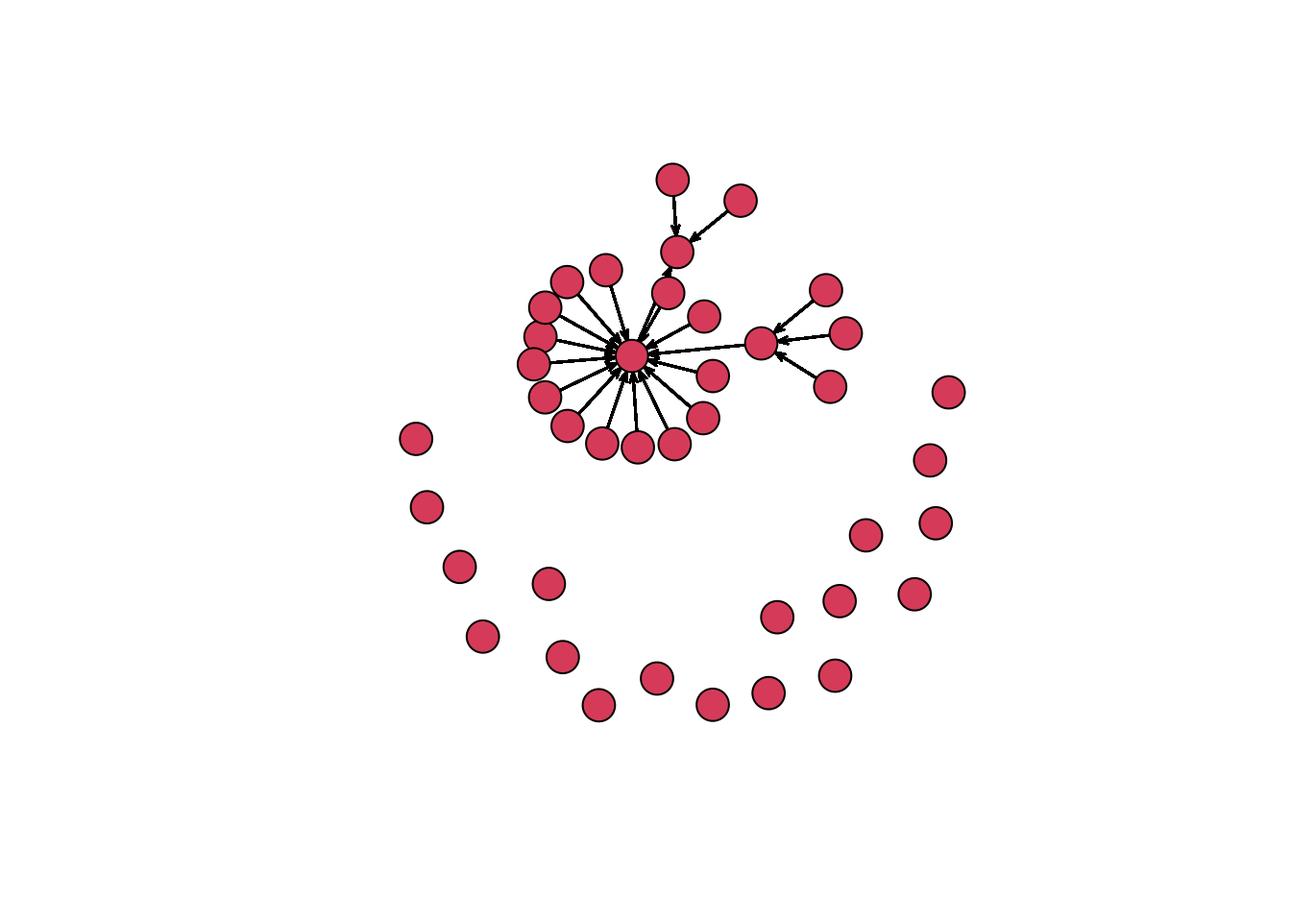
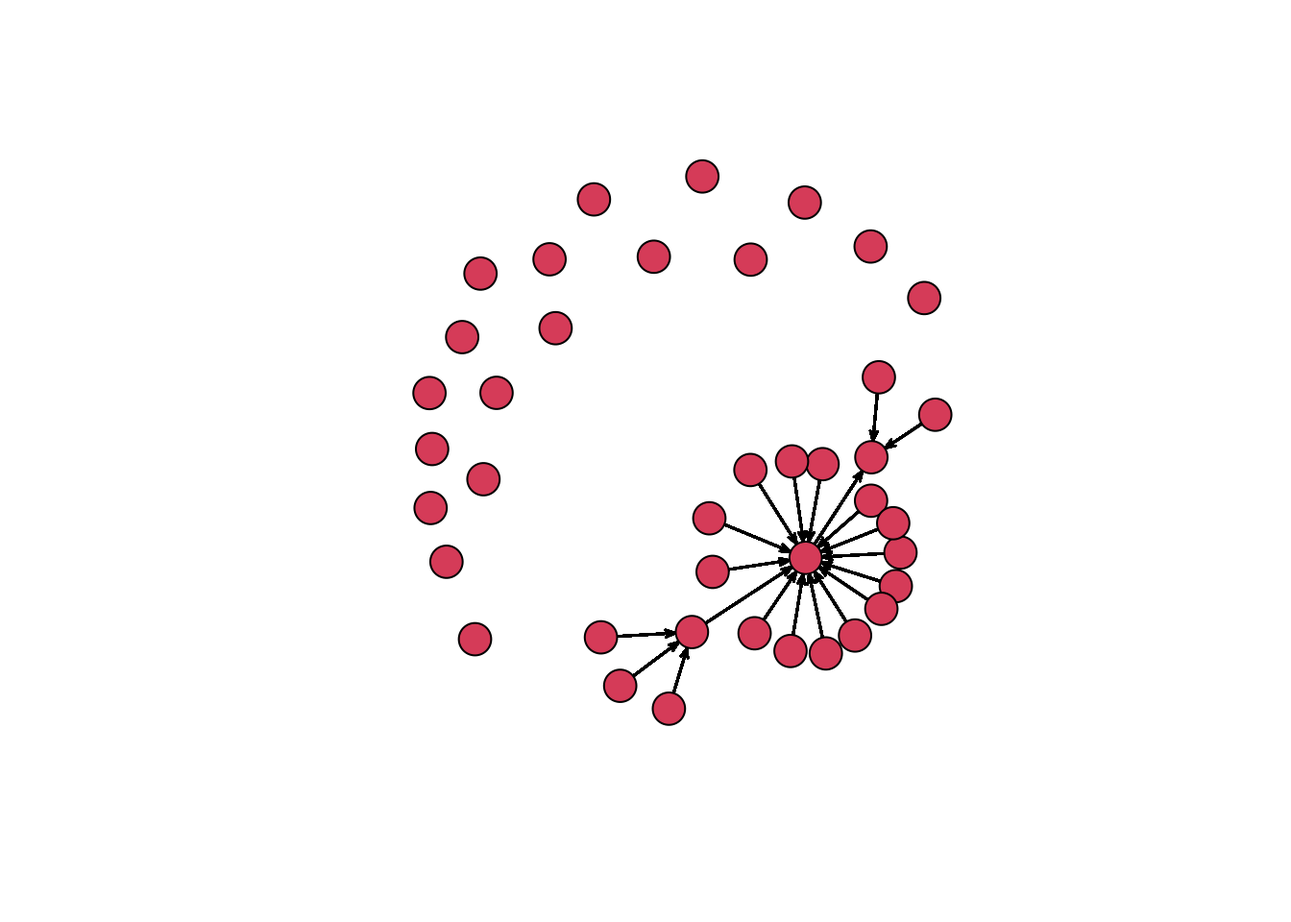
hw10

diff --git a/HW10_Final.html b/HW10_Final.html
@@ -348,9 +348,8 @@ library(network)</code></pre>
 ## Attaching package: &#39;igraph&#39;</code></pre>
 <pre><code>## The following objects are masked from &#39;package:network&#39;:
 ## 
-##     %c%, %s%, add.edges, add.vertices, delete.edges, delete.vertices,
-##     get.edge.attribute, get.edges, get.vertex.attribute, is.bipartite,
-##     is.directed, list.edge.attributes, list.vertex.attributes,
+##     %c%, %s%, add.edges, add.vertices, delete.edges, delete.vertices, get.edge.attribute, get.edges,
+##     get.vertex.attribute, is.bipartite, is.directed, list.edge.attributes, list.vertex.attributes,
 ##     set.edge.attribute, set.vertex.attribute</code></pre>
 <pre><code>## The following objects are masked from &#39;package:stats&#39;:
 ## 
@@ -359,12 +358,12 @@ library(network)</code></pre>
 ## 
 ##     union</code></pre>
 <pre class="r"><code>library(tidyverse)</code></pre>
-<pre><code>## ── Attaching packages ─────────────────────────────────────── tidyverse 1.3.0 ──</code></pre>
+<pre><code>## ── Attaching packages ─────────────────────────────────────────────────────────────────────────────── tidyverse 1.3.0 ──</code></pre>
 <pre><code>## ✓ ggplot2 3.3.3     ✓ purrr   0.3.4
 ## ✓ tibble  3.1.0     ✓ dplyr   1.0.2
 ## ✓ tidyr   1.1.2     ✓ stringr 1.4.0
 ## ✓ readr   1.4.0     ✓ forcats 0.5.0</code></pre>
-<pre><code>## ── Conflicts ────────────────────────────────────────── tidyverse_conflicts() ──
+<pre><code>## ── Conflicts ────────────────────────────────────────────────────────────────────────────────── tidyverse_conflicts() ──
 ## x dplyr::as_data_frame() masks tibble::as_data_frame(), igraph::as_data_frame()
 ## x purrr::compose()       masks igraph::compose()
 ## x tidyr::crossing()      masks igraph::crossing()
@@ -384,80 +383,43 @@ edge_prep &lt;- node %&gt;% pivot_longer(col = -c(ID, trait), names_to = &quot;i
 edgelist &lt;- separate_rows(edge_prep, value, sep =&quot;,&quot;) %&gt;% 
   rename (`tie-type` = value)
 as.character(edgelist$`tie-type`)</code></pre>
-<pre><code>##    [1] NA  NA  NA  NA  NA  NA  NA  &quot;4&quot; NA  &quot;4&quot; &quot;1&quot; NA  NA  NA  NA  NA  NA  &quot;1&quot;
-##   [19] &quot;2&quot; &quot;3&quot; &quot;4&quot; &quot;5&quot; NA  &quot;1&quot; &quot;3&quot; &quot;4&quot; &quot;5&quot; &quot;4&quot; NA  NA  NA  NA  NA  NA  NA  &quot;4&quot;
-##   [37] NA  NA  NA  NA  &quot;1&quot; &quot;2&quot; &quot;3&quot; &quot;4&quot; &quot;5&quot; NA  &quot;1&quot; &quot;3&quot; &quot;4&quot; &quot;5&quot; NA  NA  NA  NA 
-##   [55] NA  NA  NA  NA  NA  NA  NA  NA  NA  NA  NA  NA  NA  NA  NA  NA  NA  NA 
-##   [73] NA  NA  NA  NA  NA  NA  NA  NA  NA  NA  NA  NA  NA  NA  NA  NA  NA  &quot;2&quot;
-##   [91] &quot;1&quot; NA  &quot;1&quot; NA  NA  NA  NA  &quot;1&quot; &quot;2&quot; &quot;3&quot; &quot;4&quot; &quot;5&quot; NA  &quot;1&quot; &quot;3&quot; &quot;4&quot; &quot;5&quot; NA 
-##  [109] NA  &quot;1&quot; &quot;5&quot; NA  NA  NA  NA  NA  NA  NA  NA  NA  NA  NA  NA  &quot;1&quot; &quot;3&quot; &quot;4&quot;
-##  [127] &quot;5&quot; NA  &quot;1&quot; &quot;2&quot; &quot;3&quot; &quot;4&quot; &quot;5&quot; NA  NA  NA  NA  NA  NA  NA  NA  NA  NA  NA 
-##  [145] NA  NA  NA  NA  &quot;1&quot; &quot;2&quot; &quot;3&quot; &quot;4&quot; &quot;5&quot; NA  &quot;1&quot; &quot;2&quot; &quot;3&quot; &quot;4&quot; NA  NA  NA  &quot;1&quot;
-##  [163] &quot;2&quot; &quot;3&quot; &quot;4&quot; &quot;5&quot; NA  NA  NA  NA  NA  &quot;1&quot; &quot;3&quot; &quot;4&quot; NA  NA  NA  NA  NA  &quot;1&quot;
-##  [181] &quot;2&quot; &quot;3&quot; &quot;4&quot; &quot;1&quot; &quot;2&quot; &quot;3&quot; &quot;4&quot; NA  NA  NA  NA  NA  NA  &quot;2&quot; &quot;2&quot; &quot;3&quot; &quot;1&quot; &quot;2&quot;
-##  [199] &quot;3&quot; &quot;4&quot; &quot;5&quot; NA  NA  &quot;1&quot; &quot;2&quot; &quot;3&quot; &quot;4&quot; &quot;5&quot; NA  NA  &quot;1&quot; &quot;2&quot; &quot;3&quot; &quot;1&quot; &quot;2&quot; &quot;3&quot;
-##  [217] &quot;4&quot; &quot;5&quot; NA  NA  NA  NA  NA  NA  NA  NA  NA  NA  NA  NA  NA  NA  NA  NA 
-##  [235] &quot;3&quot; NA  NA  &quot;3&quot; NA  NA  NA  NA  NA  NA  NA  NA  NA  NA  NA  NA  &quot;3&quot; NA 
-##  [253] NA  NA  &quot;3&quot; NA  NA  NA  NA  NA  NA  NA  NA  &quot;1&quot; &quot;2&quot; &quot;1&quot; NA  NA  &quot;2&quot; NA 
-##  [271] &quot;4&quot; NA  NA  NA  NA  &quot;1&quot; NA  &quot;1&quot; &quot;1&quot; NA  &quot;1&quot; &quot;2&quot; &quot;1&quot; NA  &quot;4&quot; NA  NA  NA 
-##  [289] NA  NA  NA  &quot;2&quot; &quot;1&quot; &quot;3&quot; &quot;4&quot; NA  &quot;2&quot; NA  NA  NA  &quot;2&quot; NA  NA  NA  NA  NA 
-##  [307] &quot;1&quot; &quot;2&quot; &quot;3&quot; &quot;5&quot; &quot;2&quot; &quot;3&quot; &quot;4&quot; NA  NA  &quot;1&quot; &quot;2&quot; &quot;3&quot; &quot;4&quot; &quot;5&quot; &quot;1&quot; &quot;2&quot; &quot;3&quot; &quot;4&quot;
-##  [325] &quot;5&quot; &quot;4&quot; &quot;4&quot; NA  &quot;4&quot; NA  &quot;1&quot; &quot;3&quot; &quot;4&quot; NA  NA  &quot;1&quot; &quot;2&quot; &quot;3&quot; &quot;4&quot; &quot;5&quot; &quot;3&quot; NA 
-##  [343] &quot;1&quot; &quot;2&quot; &quot;3&quot; &quot;4&quot; &quot;5&quot; &quot;1&quot; &quot;2&quot; &quot;3&quot; &quot;4&quot; &quot;5&quot; &quot;3&quot; &quot;4&quot; &quot;1&quot; &quot;3&quot; &quot;4&quot; &quot;5&quot; &quot;2&quot; &quot;3&quot;
-##  [361] NA  NA  NA  &quot;1&quot; &quot;2&quot; &quot;3&quot; &quot;4&quot; &quot;1&quot; &quot;2&quot; &quot;3&quot; &quot;4&quot; &quot;5&quot; &quot;1&quot; &quot;3&quot; &quot;4&quot; NA  &quot;1&quot; &quot;2&quot;
-##  [379] &quot;3&quot; &quot;4&quot; &quot;5&quot; &quot;1&quot; &quot;3&quot; &quot;4&quot; &quot;5&quot; &quot;1&quot; &quot;3&quot; &quot;4&quot; &quot;5&quot; &quot;2&quot; &quot;2&quot; &quot;3&quot; &quot;4&quot; NA  NA  NA 
-##  [397] NA  NA  NA  NA  NA  NA  NA  NA  &quot;4&quot; NA  &quot;4&quot; NA  &quot;1&quot; NA  NA  &quot;1&quot; &quot;3&quot; NA 
-##  [415] NA  NA  NA  NA  &quot;4&quot; NA  NA  NA  NA  NA  NA  &quot;1&quot; &quot;4&quot; &quot;5&quot; &quot;4&quot; NA  NA  NA 
-##  [433] &quot;1&quot; &quot;4&quot; &quot;5&quot; NA  &quot;5&quot; &quot;4&quot; NA  NA  NA  NA  &quot;5&quot; NA  NA  NA  NA  NA  NA  &quot;4&quot;
-##  [451] NA  NA  NA  &quot;1&quot; &quot;3&quot; &quot;4&quot; &quot;5&quot; NA  NA  NA  NA  NA  &quot;1&quot; &quot;2&quot; &quot;3&quot; &quot;4&quot; &quot;5&quot; NA 
-##  [469] NA  &quot;4&quot; &quot;1&quot; &quot;5&quot; &quot;1&quot; &quot;3&quot; &quot;4&quot; &quot;5&quot; NA  NA  NA  NA  &quot;1&quot; &quot;2&quot; &quot;3&quot; &quot;4&quot; &quot;5&quot; &quot;3&quot;
-##  [487] &quot;4&quot; NA  NA  &quot;1&quot; &quot;2&quot; &quot;3&quot; &quot;4&quot; &quot;5&quot; &quot;1&quot; &quot;3&quot; &quot;4&quot; &quot;5&quot; &quot;4&quot; &quot;5&quot; NA  NA  NA  NA 
-##  [505] NA  NA  NA  NA  NA  NA  &quot;1&quot; &quot;2&quot; &quot;3&quot; &quot;4&quot; &quot;5&quot; &quot;1&quot; &quot;2&quot; &quot;3&quot; &quot;4&quot; &quot;5&quot; NA  &quot;2&quot;
-##  [523] &quot;3&quot; &quot;4&quot; NA  NA  NA  NA  NA  NA  NA  NA  NA  &quot;1&quot; &quot;2&quot; &quot;3&quot; &quot;4&quot; &quot;5&quot; &quot;1&quot; &quot;2&quot;
-##  [541] &quot;3&quot; NA  &quot;2&quot; &quot;5&quot; NA  NA  NA  NA  &quot;5&quot; &quot;1&quot; &quot;2&quot; &quot;3&quot; &quot;4&quot; &quot;5&quot; &quot;1&quot; &quot;2&quot; &quot;3&quot; &quot;4&quot;
-##  [559] &quot;5&quot; &quot;1&quot; &quot;2&quot; &quot;3&quot; &quot;4&quot; &quot;5&quot; NA  &quot;1&quot; &quot;2&quot; &quot;3&quot; &quot;4&quot; &quot;5&quot; NA  NA  &quot;2&quot; &quot;3&quot; NA  &quot;2&quot;
-##  [577] &quot;3&quot; &quot;4&quot; &quot;5&quot; NA  NA  NA  NA  &quot;1&quot; &quot;2&quot; &quot;3&quot; &quot;2&quot; NA  NA  NA  &quot;2&quot; NA  &quot;2&quot; &quot;4&quot;
-##  [595] &quot;2&quot; &quot;2&quot; &quot;4&quot; NA  NA  &quot;1&quot; &quot;2&quot; &quot;4&quot; NA  &quot;2&quot; &quot;1&quot; &quot;2&quot; &quot;2&quot; NA  &quot;2&quot; &quot;2&quot; &quot;4&quot; &quot;2&quot;
-##  [613] &quot;3&quot; &quot;4&quot; &quot;2&quot; NA  NA  &quot;1&quot; &quot;2&quot; &quot;4&quot; NA  NA  &quot;1&quot; &quot;2&quot; &quot;3&quot; &quot;4&quot; &quot;1&quot; &quot;2&quot; &quot;3&quot; &quot;4&quot;
-##  [631] NA  &quot;2&quot; &quot;2&quot; &quot;2&quot; &quot;2&quot; &quot;2&quot; &quot;2&quot; &quot;4&quot; &quot;2&quot; NA  NA  NA  NA  &quot;1&quot; &quot;2&quot; &quot;3&quot; &quot;4&quot; NA 
-##  [649] NA  &quot;1&quot; &quot;2&quot; &quot;3&quot; &quot;4&quot; &quot;5&quot; &quot;1&quot; &quot;2&quot; &quot;3&quot; &quot;4&quot; &quot;5&quot; NA  &quot;4&quot; &quot;1&quot; &quot;4&quot; &quot;5&quot; &quot;4&quot; NA 
-##  [667] NA  NA  NA  NA  NA  NA  &quot;2&quot; &quot;2&quot; NA  &quot;4&quot; &quot;4&quot; &quot;5&quot; &quot;2&quot; NA  NA  NA  &quot;2&quot; &quot;2&quot;
-##  [685] &quot;4&quot; NA  &quot;1&quot; &quot;2&quot; &quot;3&quot; &quot;4&quot; &quot;5&quot; &quot;4&quot; NA  NA  NA  NA  NA  &quot;1&quot; &quot;2&quot; &quot;3&quot; &quot;4&quot; &quot;5&quot;
-##  [703] NA  NA  &quot;4&quot; &quot;5&quot; NA  &quot;1&quot; NA  NA  &quot;5&quot; NA  &quot;1&quot; &quot;4&quot; &quot;1&quot; &quot;4&quot; &quot;5&quot; &quot;4&quot; &quot;1&quot; &quot;4&quot;
-##  [721] &quot;5&quot; NA  &quot;1&quot; &quot;4&quot; &quot;5&quot; NA  NA  NA  NA  &quot;1&quot; &quot;3&quot; &quot;4&quot; &quot;5&quot; &quot;4&quot; &quot;5&quot; NA  &quot;1&quot; &quot;2&quot;
-##  [739] &quot;3&quot; &quot;4&quot; &quot;1&quot; &quot;3&quot; &quot;4&quot; &quot;5&quot; NA  NA  NA  &quot;4&quot; &quot;5&quot; NA  &quot;1&quot; &quot;4&quot; &quot;5&quot; &quot;1&quot; &quot;3&quot; &quot;4&quot;
-##  [757] &quot;1&quot; &quot;3&quot; &quot;4&quot; &quot;5&quot; NA  NA  NA  &quot;1&quot; &quot;3&quot; &quot;4&quot; &quot;5&quot; &quot;1&quot; &quot;1&quot; &quot;3&quot; &quot;4&quot; &quot;5&quot; NA  NA 
-##  [775] NA  NA  NA  &quot;1&quot; &quot;2&quot; &quot;3&quot; &quot;4&quot; &quot;5&quot; NA  NA  &quot;1&quot; &quot;2&quot; &quot;3&quot; &quot;4&quot; &quot;5&quot; &quot;2&quot; &quot;3&quot; NA 
-##  [793] &quot;4&quot; NA  NA  &quot;1&quot; &quot;1&quot; &quot;3&quot; &quot;4&quot; &quot;5&quot; NA  NA  &quot;3&quot; &quot;4&quot; NA  NA  &quot;1&quot; NA  &quot;1&quot; &quot;2&quot;
-##  [811] &quot;3&quot; &quot;4&quot; &quot;5&quot; NA  &quot;1&quot; &quot;3&quot; NA  NA  NA  NA  NA  &quot;1&quot; &quot;2&quot; &quot;3&quot; &quot;4&quot; &quot;5&quot; NA  &quot;1&quot;
-##  [829] &quot;2&quot; &quot;3&quot; &quot;4&quot; &quot;5&quot; &quot;2&quot; &quot;3&quot; NA  NA  &quot;1&quot; &quot;2&quot; &quot;3&quot; &quot;4&quot; &quot;5&quot; &quot;2&quot; &quot;1&quot; &quot;2&quot; &quot;3&quot; &quot;4&quot;
-##  [847] &quot;5&quot; NA  NA  NA  NA  NA  NA  NA  &quot;1&quot; &quot;2&quot; &quot;3&quot; &quot;4&quot; &quot;5&quot; NA  &quot;1&quot; &quot;2&quot; &quot;3&quot; &quot;4&quot;
-##  [865] &quot;5&quot; NA  NA  NA  NA  NA  NA  NA  NA  NA  NA  NA  &quot;2&quot; &quot;4&quot; &quot;5&quot; NA  NA  NA 
-##  [883] &quot;1&quot; &quot;2&quot; &quot;3&quot; &quot;4&quot; &quot;5&quot; NA  NA  NA  NA  NA  &quot;4&quot; &quot;5&quot; &quot;1&quot; &quot;4&quot; &quot;5&quot; NA  NA  NA 
-##  [901] NA  NA  NA  NA  NA  NA  NA  &quot;1&quot; &quot;2&quot; &quot;3&quot; &quot;4&quot; &quot;5&quot; NA  &quot;3&quot; &quot;4&quot; NA  NA  NA 
-##  [919] NA  NA  &quot;4&quot; NA  &quot;4&quot; NA  &quot;1&quot; &quot;3&quot; &quot;1&quot; &quot;3&quot; NA  NA  NA  NA  &quot;1&quot; &quot;3&quot; &quot;4&quot; &quot;5&quot;
-##  [937] NA  &quot;1&quot; &quot;3&quot; &quot;4&quot; &quot;5&quot; &quot;4&quot; NA  NA  NA  NA  NA  &quot;1&quot; &quot;3&quot; NA  &quot;4&quot; &quot;1&quot; &quot;3&quot; &quot;4&quot;
-##  [955] &quot;5&quot; NA  NA  NA  &quot;1&quot; &quot;3&quot; &quot;4&quot; &quot;5&quot; NA  NA  NA  NA  NA  NA  NA  &quot;2&quot; &quot;4&quot; &quot;2&quot;
-##  [973] &quot;4&quot; &quot;5&quot; NA  NA  &quot;4&quot; NA  NA  &quot;1&quot; &quot;2&quot; &quot;4&quot; &quot;5&quot; NA  NA  NA  NA  &quot;1&quot; &quot;2&quot; &quot;3&quot;
-##  [991] &quot;4&quot; &quot;5&quot; NA  NA  NA  NA  &quot;1&quot; &quot;2&quot; &quot;4&quot; &quot;5&quot; NA  NA  NA  NA  NA  NA  &quot;1&quot; &quot;2&quot;
-## [1009] &quot;4&quot; &quot;5&quot; NA  &quot;4&quot; &quot;5&quot; &quot;2&quot; &quot;4&quot; &quot;5&quot; NA  NA  NA  NA  NA  NA  NA  NA  NA  NA 
-## [1027] NA  NA  NA  NA  NA  NA  NA  NA  NA  NA  NA  NA  NA  NA  NA  NA  NA  NA 
-## [1045] NA  NA  NA  NA  NA  NA  NA  NA  NA  NA  NA  NA  NA  NA  NA  NA  NA  NA 
-## [1063] NA  NA  NA  NA  NA  NA  &quot;1&quot; &quot;2&quot; &quot;3&quot; &quot;4&quot; NA  NA  &quot;1&quot; &quot;2&quot; &quot;3&quot; &quot;4&quot; &quot;5&quot; &quot;1&quot;
-## [1081] &quot;2&quot; &quot;3&quot; &quot;4&quot; &quot;5&quot; NA  &quot;1&quot; &quot;2&quot; &quot;3&quot; &quot;4&quot; NA  &quot;4&quot; NA  NA  &quot;3&quot; &quot;4&quot; &quot;5&quot; NA  NA 
-## [1099] NA  NA  &quot;2&quot; &quot;3&quot; &quot;2&quot; NA  &quot;4&quot; &quot;1&quot; &quot;3&quot; &quot;2&quot; &quot;3&quot; NA  NA  NA  &quot;2&quot; &quot;1&quot; &quot;2&quot; &quot;1&quot;
-## [1117] &quot;3&quot; &quot;4&quot; NA  &quot;1&quot; &quot;2&quot; &quot;3&quot; &quot;4&quot; NA  NA  NA  &quot;1&quot; &quot;2&quot; &quot;3&quot; &quot;4&quot; &quot;5&quot; NA  NA  &quot;1&quot;
-## [1135] &quot;3&quot; &quot;4&quot; &quot;5&quot; NA  NA  NA  &quot;2&quot; &quot;3&quot; &quot;1&quot; NA  &quot;1&quot; &quot;2&quot; &quot;3&quot; &quot;4&quot; &quot;5&quot; &quot;2&quot; NA  &quot;4&quot;
-## [1153] &quot;1&quot; NA  &quot;1&quot; NA  NA  NA  &quot;1&quot; NA  NA  &quot;1&quot; &quot;2&quot; &quot;3&quot; &quot;4&quot; &quot;5&quot; &quot;1&quot; &quot;2&quot; &quot;3&quot; &quot;4&quot;
-## [1171] &quot;5&quot; &quot;1&quot; &quot;3&quot; &quot;4&quot; &quot;5&quot; NA  NA  NA  NA  NA  NA  NA  &quot;2&quot; &quot;4&quot; &quot;1&quot; &quot;2&quot; &quot;3&quot; &quot;4&quot;
-## [1189] &quot;5&quot; NA  NA  NA  NA  NA  &quot;1&quot; &quot;3&quot; &quot;4&quot; &quot;5&quot; NA  NA  NA  NA  &quot;5&quot; &quot;1&quot; &quot;3&quot; &quot;4&quot;
-## [1207] NA  NA  &quot;1&quot; &quot;3&quot; &quot;4&quot; NA  NA  &quot;4&quot; NA  &quot;4&quot; NA  NA  NA  NA  NA  NA  NA  NA 
-## [1225] NA  &quot;3&quot; &quot;4&quot; &quot;5&quot; &quot;2&quot; &quot;4&quot; NA  NA  NA  NA  NA  NA  &quot;4&quot; &quot;3&quot; &quot;4&quot; NA  &quot;3&quot; &quot;4&quot;
-## [1243] &quot;5&quot; &quot;3&quot; &quot;3&quot; NA  &quot;1&quot; &quot;3&quot; &quot;4&quot; &quot;5&quot; NA  NA  NA  NA  NA  NA  &quot;1&quot; &quot;2&quot; &quot;3&quot; &quot;4&quot;
-## [1261] &quot;5&quot; NA  NA  &quot;1&quot; &quot;2&quot; &quot;3&quot; &quot;4&quot; &quot;5&quot; NA  NA  &quot;1&quot; &quot;2&quot; &quot;4&quot; NA  NA  NA  NA  NA 
-## [1279] NA  NA  NA  NA  &quot;2&quot; &quot;2&quot; NA  &quot;4&quot; &quot;1&quot; &quot;3&quot; &quot;4&quot; &quot;5&quot; &quot;2&quot; &quot;1&quot; &quot;5&quot; NA  NA  &quot;2&quot;
-## [1297] &quot;1&quot; &quot;2&quot; &quot;4&quot; NA  &quot;1&quot; &quot;2&quot; &quot;3&quot; &quot;4&quot; &quot;5&quot; NA  NA  &quot;2&quot; &quot;1&quot; &quot;2&quot; &quot;3&quot; &quot;4&quot; &quot;5&quot; NA 
-## [1315] NA  NA  NA  &quot;1&quot; &quot;4&quot; &quot;5&quot;</code></pre>
+<pre><code>##    [1] NA  NA  NA  NA  NA  NA  NA  &quot;4&quot; NA  &quot;4&quot; &quot;1&quot; NA  NA  NA  NA  NA  NA  &quot;1&quot; &quot;2&quot; &quot;3&quot; &quot;4&quot; &quot;5&quot; NA  &quot;1&quot; &quot;3&quot; &quot;4&quot; &quot;5&quot; &quot;4&quot;
+##   [29] NA  NA  NA  NA  NA  NA  NA  &quot;4&quot; NA  NA  NA  NA  &quot;1&quot; &quot;2&quot; &quot;3&quot; &quot;4&quot; &quot;5&quot; NA  &quot;1&quot; &quot;3&quot; &quot;4&quot; &quot;5&quot; NA  NA  NA  NA  NA  NA 
+##   [57] NA  NA  NA  NA  NA  NA  NA  NA  NA  NA  NA  NA  NA  NA  NA  NA  NA  NA  NA  NA  NA  NA  NA  NA  NA  NA  NA  NA 
+##   [85] NA  NA  NA  NA  NA  &quot;2&quot; &quot;1&quot; NA  &quot;1&quot; NA  NA  NA  NA  &quot;1&quot; &quot;2&quot; &quot;3&quot; &quot;4&quot; &quot;5&quot; NA  &quot;1&quot; &quot;3&quot; &quot;4&quot; &quot;5&quot; NA  NA  &quot;1&quot; &quot;5&quot; NA 
+##  [113] NA  NA  NA  NA  NA  NA  NA  NA  NA  NA  NA  &quot;1&quot; &quot;3&quot; &quot;4&quot; &quot;5&quot; NA  &quot;1&quot; &quot;2&quot; &quot;3&quot; &quot;4&quot; &quot;5&quot; NA  NA  NA  NA  NA  NA  NA 
+##  [141] NA  NA  NA  NA  NA  NA  NA  NA  &quot;1&quot; &quot;2&quot; &quot;3&quot; &quot;4&quot; &quot;5&quot; NA  &quot;1&quot; &quot;2&quot; &quot;3&quot; &quot;4&quot; NA  NA  NA  &quot;1&quot; &quot;2&quot; &quot;3&quot; &quot;4&quot; &quot;5&quot; NA  NA 
+##  [169] NA  NA  NA  &quot;1&quot; &quot;3&quot; &quot;4&quot; NA  NA  NA  NA  NA  &quot;1&quot; &quot;2&quot; &quot;3&quot; &quot;4&quot; &quot;1&quot; &quot;2&quot; &quot;3&quot; &quot;4&quot; NA  NA  NA  NA  NA  NA  &quot;2&quot; &quot;2&quot; &quot;3&quot;
+##  [197] &quot;1&quot; &quot;2&quot; &quot;3&quot; &quot;4&quot; &quot;5&quot; NA  NA  &quot;1&quot; &quot;2&quot; &quot;3&quot; &quot;4&quot; &quot;5&quot; NA  NA  &quot;1&quot; &quot;2&quot; &quot;3&quot; &quot;1&quot; &quot;2&quot; &quot;3&quot; &quot;4&quot; &quot;5&quot; NA  NA  NA  NA  NA  NA 
+##  [225] NA  NA  NA  NA  NA  NA  NA  NA  NA  NA  &quot;3&quot; NA  NA  &quot;3&quot; NA  NA  NA  NA  NA  NA  NA  NA  NA  NA  NA  NA  &quot;3&quot; NA 
+##  [253] NA  NA  &quot;3&quot; NA  NA  NA  NA  NA  NA  NA  NA  &quot;1&quot; &quot;2&quot; &quot;1&quot; NA  NA  &quot;2&quot; NA  &quot;4&quot; NA  NA  NA  NA  &quot;1&quot; NA  &quot;1&quot; &quot;1&quot; NA 
+##  [281] &quot;1&quot; &quot;2&quot; &quot;1&quot; NA  &quot;4&quot; NA  NA  NA  NA  NA  NA  &quot;2&quot; &quot;1&quot; &quot;3&quot; &quot;4&quot; NA  &quot;2&quot; NA  NA  NA  &quot;2&quot; NA  NA  NA  NA  NA  &quot;1&quot; &quot;2&quot;
+##  [309] &quot;3&quot; &quot;5&quot; &quot;2&quot; &quot;3&quot; &quot;4&quot; NA  NA  &quot;1&quot; &quot;2&quot; &quot;3&quot; &quot;4&quot; &quot;5&quot; &quot;1&quot; &quot;2&quot; &quot;3&quot; &quot;4&quot; &quot;5&quot; &quot;4&quot; &quot;4&quot; NA  &quot;4&quot; NA  &quot;1&quot; &quot;3&quot; &quot;4&quot; NA  NA  &quot;1&quot;
+##  [337] &quot;2&quot; &quot;3&quot; &quot;4&quot; &quot;5&quot; &quot;3&quot; NA  &quot;1&quot; &quot;2&quot; &quot;3&quot; &quot;4&quot; &quot;5&quot; &quot;1&quot; &quot;2&quot; &quot;3&quot; &quot;4&quot; &quot;5&quot; &quot;3&quot; &quot;4&quot; &quot;1&quot; &quot;3&quot; &quot;4&quot; &quot;5&quot; &quot;2&quot; &quot;3&quot; NA  NA  NA  &quot;1&quot;
+##  [365] &quot;2&quot; &quot;3&quot; &quot;4&quot; &quot;1&quot; &quot;2&quot; &quot;3&quot; &quot;4&quot; &quot;5&quot; &quot;1&quot; &quot;3&quot; &quot;4&quot; NA  &quot;1&quot; &quot;2&quot; &quot;3&quot; &quot;4&quot; &quot;5&quot; &quot;1&quot; &quot;3&quot; &quot;4&quot; &quot;5&quot; &quot;1&quot; &quot;3&quot; &quot;4&quot; &quot;5&quot; &quot;2&quot; &quot;2&quot; &quot;3&quot;
+##  [393] &quot;4&quot; NA  NA  NA  NA  NA  NA  NA  NA  NA  NA  NA  &quot;4&quot; NA  &quot;4&quot; NA  &quot;1&quot; NA  NA  &quot;1&quot; &quot;3&quot; NA  NA  NA  NA  NA  &quot;4&quot; NA 
+##  [421] NA  NA  NA  NA  NA  &quot;1&quot; &quot;4&quot; &quot;5&quot; &quot;4&quot; NA  NA  NA  &quot;1&quot; &quot;4&quot; &quot;5&quot; NA  &quot;5&quot; &quot;4&quot; NA  NA  NA  NA  &quot;5&quot; NA  NA  NA  NA  NA 
+##  [449] NA  &quot;4&quot; NA  NA  NA  &quot;1&quot; &quot;3&quot; &quot;4&quot; &quot;5&quot; NA  NA  NA  NA  NA  &quot;1&quot; &quot;2&quot; &quot;3&quot; &quot;4&quot; &quot;5&quot; NA  NA  &quot;4&quot; &quot;1&quot; &quot;5&quot; &quot;1&quot; &quot;3&quot; &quot;4&quot; &quot;5&quot;
+##  [477] NA  NA  NA  NA  &quot;1&quot; &quot;2&quot; &quot;3&quot; &quot;4&quot; &quot;5&quot; &quot;3&quot; &quot;4&quot; NA  NA  &quot;1&quot; &quot;2&quot; &quot;3&quot; &quot;4&quot; &quot;5&quot; &quot;1&quot; &quot;3&quot; &quot;4&quot; &quot;5&quot; &quot;4&quot; &quot;5&quot; NA  NA  NA  NA 
+##  [505] NA  NA  NA  NA  NA  NA  &quot;1&quot; &quot;2&quot; &quot;3&quot; &quot;4&quot; &quot;5&quot; &quot;1&quot; &quot;2&quot; &quot;3&quot; &quot;4&quot; &quot;5&quot; NA  &quot;2&quot; &quot;3&quot; &quot;4&quot; NA  NA  NA  NA  NA  NA  NA  NA 
+##  [533] NA  &quot;1&quot; &quot;2&quot; &quot;3&quot; &quot;4&quot; &quot;5&quot; &quot;1&quot; &quot;2&quot; &quot;3&quot; NA  &quot;2&quot; &quot;5&quot; NA  NA  NA  NA  &quot;5&quot; &quot;1&quot; &quot;2&quot; &quot;3&quot; &quot;4&quot; &quot;5&quot; &quot;1&quot; &quot;2&quot; &quot;3&quot; &quot;4&quot; &quot;5&quot; &quot;1&quot;
+##  [561] &quot;2&quot; &quot;3&quot; &quot;4&quot; &quot;5&quot; NA  &quot;1&quot; &quot;2&quot; &quot;3&quot; &quot;4&quot; &quot;5&quot; NA  NA  &quot;2&quot; &quot;3&quot; NA  &quot;2&quot; &quot;3&quot; &quot;4&quot; &quot;5&quot; NA  NA  NA  NA  &quot;1&quot; &quot;2&quot; &quot;3&quot; &quot;2&quot; NA 
+##  [589] NA  NA  &quot;2&quot; NA  &quot;2&quot; &quot;4&quot; &quot;2&quot; &quot;2&quot; &quot;4&quot; NA  NA  &quot;1&quot; &quot;2&quot; &quot;4&quot; NA  &quot;2&quot; &quot;1&quot; &quot;2&quot; &quot;2&quot; NA  &quot;2&quot; &quot;2&quot; &quot;4&quot; &quot;2&quot; &quot;3&quot; &quot;4&quot; &quot;2&quot; NA 
+##  [617] NA  &quot;1&quot; &quot;2&quot; &quot;4&quot; NA  NA  &quot;1&quot; &quot;2&quot; &quot;3&quot; &quot;4&quot; &quot;1&quot; &quot;2&quot; &quot;3&quot; &quot;4&quot; NA  &quot;2&quot; &quot;2&quot; &quot;2&quot; &quot;2&quot; &quot;2&quot; &quot;2&quot; &quot;4&quot; &quot;2&quot; NA  NA  NA  NA  &quot;1&quot;
+##  [645] &quot;2&quot; &quot;3&quot; &quot;4&quot; NA  NA  &quot;1&quot; &quot;2&quot; &quot;3&quot; &quot;4&quot; &quot;5&quot; &quot;1&quot; &quot;2&quot; &quot;3&quot; &quot;4&quot; &quot;5&quot; NA  &quot;4&quot; &quot;1&quot; &quot;4&quot; &quot;5&quot; &quot;4&quot; NA  NA  NA  NA  NA  NA  NA 
+##  [673] &quot;2&quot; &quot;2&quot; NA  &quot;4&quot; &quot;4&quot; &quot;5&quot; &quot;2&quot; NA  NA  NA  &quot;2&quot; &quot;2&quot; &quot;4&quot; NA  &quot;1&quot; &quot;2&quot; &quot;3&quot; &quot;4&quot; &quot;5&quot; &quot;4&quot; NA  NA  NA  NA  NA  &quot;1&quot; &quot;2&quot; &quot;3&quot;
+##  [701] &quot;4&quot; &quot;5&quot; NA  NA  &quot;4&quot; &quot;5&quot; NA  &quot;1&quot; NA  NA  &quot;5&quot; NA  &quot;1&quot; &quot;4&quot; &quot;1&quot; &quot;4&quot; &quot;5&quot; &quot;4&quot; &quot;1&quot; &quot;4&quot; &quot;5&quot; NA  &quot;1&quot; &quot;4&quot; &quot;5&quot; NA  NA  NA 
+##  [729] NA  &quot;1&quot; &quot;3&quot; &quot;4&quot; &quot;5&quot; &quot;4&quot; &quot;5&quot; NA  &quot;1&quot; &quot;2&quot; &quot;3&quot; &quot;4&quot; &quot;1&quot; &quot;3&quot; &quot;4&quot; &quot;5&quot; NA  NA  NA  &quot;4&quot; &quot;5&quot; NA  &quot;1&quot; &quot;4&quot; &quot;5&quot; &quot;1&quot; &quot;3&quot; &quot;4&quot;
+##  [757] &quot;1&quot; &quot;3&quot; &quot;4&quot; &quot;5&quot; NA  NA  NA  &quot;1&quot; &quot;3&quot; &quot;4&quot; &quot;5&quot; &quot;1&quot; &quot;1&quot; &quot;3&quot; &quot;4&quot; &quot;5&quot; NA  NA  NA  NA  NA  &quot;1&quot; &quot;2&quot; &quot;3&quot; &quot;4&quot; &quot;5&quot; NA  NA 
+##  [785] &quot;1&quot; &quot;2&quot; &quot;3&quot; &quot;4&quot; &quot;5&quot; &quot;2&quot; &quot;3&quot; NA  &quot;4&quot; NA  NA  &quot;1&quot; &quot;1&quot; &quot;3&quot; &quot;4&quot; &quot;5&quot; NA  NA  &quot;3&quot; &quot;4&quot; NA  NA  &quot;1&quot; NA  &quot;1&quot; &quot;2&quot; &quot;3&quot; &quot;4&quot;
+##  [813] &quot;5&quot; NA  &quot;1&quot; &quot;3&quot; NA  NA  NA  NA  NA  &quot;1&quot; &quot;2&quot; &quot;3&quot; &quot;4&quot; &quot;5&quot; NA  &quot;1&quot; &quot;2&quot; &quot;3&quot; &quot;4&quot; &quot;5&quot; &quot;2&quot; &quot;3&quot; NA  NA  &quot;1&quot; &quot;2&quot; &quot;3&quot; &quot;4&quot;
+##  [841] &quot;5&quot; &quot;2&quot; &quot;1&quot; &quot;2&quot; &quot;3&quot; &quot;4&quot; &quot;5&quot; NA  NA  NA  NA  NA  NA  NA  &quot;1&quot; &quot;2&quot; &quot;3&quot; &quot;4&quot; &quot;5&quot; NA  &quot;1&quot; &quot;2&quot; &quot;3&quot; &quot;4&quot; &quot;5&quot; NA  NA  NA 
+##  [869] NA  NA  NA  NA  NA  NA  NA  NA  &quot;2&quot; &quot;4&quot; &quot;5&quot; NA  NA  NA  &quot;1&quot; &quot;2&quot; &quot;3&quot; &quot;4&quot; &quot;5&quot; NA  NA  NA  NA  NA  &quot;4&quot; &quot;5&quot; &quot;1&quot; &quot;4&quot;
+##  [897] &quot;5&quot; NA  NA  NA  NA  NA  NA  NA  NA  NA  NA  &quot;1&quot; &quot;2&quot; &quot;3&quot; &quot;4&quot; &quot;5&quot; NA  &quot;3&quot; &quot;4&quot; NA  NA  NA  NA  NA  &quot;4&quot; NA  &quot;4&quot; NA 
+##  [925] &quot;1&quot; &quot;3&quot; &quot;1&quot; &quot;3&quot; NA  NA  NA  NA  &quot;1&quot; &quot;3&quot; &quot;4&quot; &quot;5&quot; NA  &quot;1&quot; &quot;3&quot; &quot;4&quot; &quot;5&quot; &quot;4&quot; NA  NA  NA  NA  NA  &quot;1&quot; &quot;3&quot; NA  &quot;4&quot; &quot;1&quot;
+##  [953] &quot;3&quot; &quot;4&quot; &quot;5&quot; NA  NA  NA  &quot;1&quot; &quot;3&quot; &quot;4&quot; &quot;5&quot; NA  NA  NA  NA  NA  NA  NA  &quot;2&quot; &quot;4&quot; &quot;2&quot; &quot;4&quot; &quot;5&quot; NA  NA  &quot;4&quot; NA  NA  &quot;1&quot;
+##  [981] &quot;2&quot; &quot;4&quot; &quot;5&quot; NA  NA  NA  NA  &quot;1&quot; &quot;2&quot; &quot;3&quot; &quot;4&quot; &quot;5&quot; NA  NA  NA  NA  &quot;1&quot; &quot;2&quot; &quot;4&quot; &quot;5&quot;
+##  [ reached getOption(&quot;max.print&quot;) -- omitted 320 entries ]</code></pre>
 <pre class="r"><code>edgelist$`tie-type`[is.na(edgelist$`tie-type`)] = 0 #NA values for tie-type to 0  
 edgelist &lt;- na.omit(edgelist)
 edgelist &lt;- edgelist %&gt;%
@@ -552,88 +514,33 @@ summary(classnormsnet)</code></pre>
 ## 551 143 133 131 176 112 
 ## 
 ## Network adjacency matrix:
-##    1 2 3 4 5 6 7 8 9 10 11 12 13 14 15 16 17 18 19 20 21 22 23 24 25 26 27 28
-## 1  0 1 0 0 0 0 0 0 0  0  0  0  0  0  0  0  0  0  0  0  0  0  0  0  0  0  0  0
-## 2  0 0 1 0 0 0 0 0 0  0  0  0  0  0  0  0  0  0  0  0  0  0  0  0  0  0  0  0
-## 3  0 0 0 0 0 0 0 0 0  0  0  0  0  0  0  0  0  0  0  0  0  0  0  0  0  0  0  0
-## 4  0 0 0 0 0 0 0 0 0  0  0  0  0  0  0  0  0  0  0  0  0  0  0  0  0  0  0  0
-## 5  0 1 0 0 0 0 0 0 0  0  0  0  0  0  0  0  0  0  0  0  0  0  0  0  0  0  0  0
-## 6  0 1 0 0 0 0 0 0 0  0  0  0  0  0  0  0  0  0  0  0  0  0  0  0  0  0  0  0
-## 7  1 0 0 0 0 0 0 0 0  0  0  0  0  0  0  0  0  0  0  0  0  0  0  0  0  0  0  0
-## 8  0 0 0 0 0 0 0 0 0  0  0  0  0  0  0  0  0  0  0  0  0  0  0  0  0  0  0  0
-## 9  0 0 0 0 0 0 0 0 0  0  0  0  0  0  0  0  0  0  0  0  0  0  0  0  0  0  0  0
-## 10 0 0 0 0 0 0 0 0 0  0  0  0  0  0  0  0  0  0  0  0  0  0  0  0  0  0  0  0
-## 11 0 0 0 0 0 0 0 0 0  0  0  0  0  0  0  0  0  0  0  0  0  0  0  0  0  0  0  0
-## 12 0 0 0 0 0 0 0 0 0  0  0  0  0  0  0  0  0  0  0  0  0  0  0  0  0  0  0  0
-## 13 0 0 0 0 0 0 0 0 0  0  0  0  0  0  0  0  0  0  0  0  0  0  0  0  0  0  0  0
-## 14 0 0 0 0 0 0 0 0 0  0  0  0  0  0  0  0  0  0  0  0  0  0  0  0  0  0  0  0
-## 15 0 1 0 0 0 0 0 0 0  0  0  0  0  0  0  0  0  0  0  0  0  0  0  0  0  0  0  0
-## 16 0 0 0 0 0 0 0 0 0  0  0  0  0  0  0  0  0  0  0  0  0  0  0  0  0  0  0  0
-## 17 0 1 0 0 0 0 0 0 0  0  0  0  0  0  0  0  0  0  0  0  0  0  0  0  0  0  0  0
-## 18 1 0 0 0 0 0 0 0 0  0  0  0  0  0  0  0  0  0  0  0  0  0  0  0  0  0  0  0
-## 19 0 0 0 0 0 0 0 0 0  0  0  0  0  0  0  0  0  0  0  0  0  0  0  0  0  0  0  0
-## 20 0 1 0 0 0 0 0 0 0  0  0  0  0  0  0  0  0  0  0  0  0  0  0  0  0  0  0  0
-## 21 0 0 0 0 0 0 0 0 0  0  0  0  0  0  0  0  0  0  0  0  0  0  0  0  0  0  0  0
-## 22 0 0 0 0 0 0 0 0 0  0  0  0  0  0  0  0  0  0  0  0  0  0  0  0  0  0  0  0
-## 23 0 1 0 0 0 0 0 0 0  0  0  0  0  0  0  0  0  0  0  0  0  0  0  0  0  0  0  0
-## 24 0 1 0 0 0 0 0 0 0  0  0  0  0  0  0  0  0  0  0  0  0  0  0  0  0  0  0  0
-## 25 0 0 0 0 0 0 0 0 0  0  0  0  0  0  0  0  0  0  0  0  0  0  0  0  0  0  0  0
-## 26 0 0 0 0 0 0 0 0 0  0  0  0  0  0  0  0  0  0  0  0  0  0  0  0  0  0  0  0
-## 27 0 0 0 0 0 0 0 0 0  0  0  0  0  0  0  0  0  0  0  0  0  0  0  0  0  0  0  0
-## 28 0 1 0 0 0 0 0 0 0  0  0  0  0  0  0  0  0  0  0  0  0  0  0  0  0  0  0  0
-## 29 0 0 0 0 0 0 0 0 0  0  0  0  0  0  0  0  0  0  0  0  0  0  0  0  0  0  0  0
-## 30 0 1 0 0 0 0 0 0 0  0  0  0  0  0  0  0  0  0  0  0  0  0  0  0  0  0  0  0
-## 31 0 0 1 0 0 0 0 0 0  0  0  0  0  0  0  0  0  0  0  0  0  0  0  0  0  0  0  0
-## 32 0 1 0 0 0 0 0 0 0  0  0  0  0  0  0  0  0  0  0  0  0  0  0  0  0  0  0  0
-## 33 0 1 0 0 0 0 0 0 0  0  0  0  0  0  0  0  0  0  0  0  0  0  0  0  0  0  0  0
-## 34 1 0 0 0 0 0 0 0 0  0  0  0  0  0  0  0  0  0  0  0  0  0  0  0  0  0  0  0
-## 35 0 0 1 0 0 0 0 0 0  0  0  0  0  0  0  0  0  0  0  0  0  0  0  0  0  0  0  0
-## 36 0 1 0 0 0 0 0 0 0  0  0  0  0  0  0  0  0  0  0  0  0  0  0  0  0  0  0  0
-## 37 0 0 0 0 0 0 0 0 0  0  0  0  0  0  0  0  0  0  0  0  0  0  0  0  0  0  0  0
-## 38 0 1 0 0 0 0 0 0 0  0  0  0  0  0  0  0  0  0  0  0  0  0  0  0  0  0  0  0
-## 39 0 0 0 0 0 0 0 0 0  0  0  0  0  0  0  0  0  0  0  0  0  0  0  0  0  0  0  0
-## 40 0 1 0 0 0 0 0 0 0  0  0  0  0  0  0  0  0  0  0  0  0  0  0  0  0  0  0  0
-##    29 30 31 32 33 34 35 36 37 38 39 40
-## 1   0  0  0  0  0  0  0  0  0  0  0  0
-## 2   0  0  0  0  0  0  0  0  0  0  0  0
-## 3   0  0  0  0  0  0  0  0  0  0  0  0
-## 4   0  0  0  0  0  0  0  0  0  0  0  0
-## 5   0  0  0  0  0  0  0  0  0  0  0  0
-## 6   0  0  0  0  0  0  0  0  0  0  0  0
-## 7   0  0  0  0  0  0  0  0  0  0  0  0
-## 8   0  0  0  0  0  0  0  0  0  0  0  0
-## 9   0  0  0  0  0  0  0  0  0  0  0  0
-## 10  0  0  0  0  0  0  0  0  0  0  0  0
-## 11  0  0  0  0  0  0  0  0  0  0  0  0
-## 12  0  0  0  0  0  0  0  0  0  0  0  0
-## 13  0  0  0  0  0  0  0  0  0  0  0  0
-## 14  0  0  0  0  0  0  0  0  0  0  0  0
-## 15  0  0  0  0  0  0  0  0  0  0  0  0
-## 16  0  0  0  0  0  0  0  0  0  0  0  0
-## 17  0  0  0  0  0  0  0  0  0  0  0  0
-## 18  0  0  0  0  0  0  0  0  0  0  0  0
-## 19  0  0  0  0  0  0  0  0  0  0  0  0
-## 20  0  0  0  0  0  0  0  0  0  0  0  0
-## 21  0  0  0  0  0  0  0  0  0  0  0  0
-## 22  0  0  0  0  0  0  0  0  0  0  0  0
-## 23  0  0  0  0  0  0  0  0  0  0  0  0
-## 24  0  0  0  0  0  0  0  0  0  0  0  0
-## 25  0  0  0  0  0  0  0  0  0  0  0  0
-## 26  0  0  0  0  0  0  0  0  0  0  0  0
-## 27  0  0  0  0  0  0  0  0  0  0  0  0
-## 28  0  0  0  0  0  0  0  0  0  0  0  0
-## 29  0  0  0  0  0  0  0  0  0  0  0  0
-## 30  0  0  0  0  0  0  0  0  0  0  0  0
-## 31  0  0  0  0  0  0  0  0  0  0  0  0
-## 32  0  0  0  0  0  0  0  0  0  0  0  0
-## 33  0  0  0  0  0  0  0  0  0  0  0  0
-## 34  0  0  0  0  0  0  0  0  0  0  0  0
-## 35  0  0  0  0  0  0  0  0  0  0  0  0
-## 36  0  0  0  0  0  0  0  0  0  0  0  0
-## 37  0  0  0  0  0  0  0  0  0  0  0  0
-## 38  0  0  0  0  0  0  0  0  0  0  0  0
-## 39  0  0  0  0  0  0  0  0  0  0  0  0
-## 40  0  0  0  0  0  0  0  0  0  0  0  0</code></pre>
+##    1 2 3 4 5 6 7 8 9 10 11 12 13 14 15 16 17 18 19 20 21 22 23 24 25 26 27 28 29 30 31 32 33 34 35 36 37 38 39 40
+## 1  0 1 0 0 0 0 0 0 0  0  0  0  0  0  0  0  0  0  0  0  0  0  0  0  0  0  0  0  0  0  0  0  0  0  0  0  0  0  0  0
+## 2  0 0 1 0 0 0 0 0 0  0  0  0  0  0  0  0  0  0  0  0  0  0  0  0  0  0  0  0  0  0  0  0  0  0  0  0  0  0  0  0
+## 3  0 0 0 0 0 0 0 0 0  0  0  0  0  0  0  0  0  0  0  0  0  0  0  0  0  0  0  0  0  0  0  0  0  0  0  0  0  0  0  0
+## 4  0 0 0 0 0 0 0 0 0  0  0  0  0  0  0  0  0  0  0  0  0  0  0  0  0  0  0  0  0  0  0  0  0  0  0  0  0  0  0  0
+## 5  0 1 0 0 0 0 0 0 0  0  0  0  0  0  0  0  0  0  0  0  0  0  0  0  0  0  0  0  0  0  0  0  0  0  0  0  0  0  0  0
+## 6  0 1 0 0 0 0 0 0 0  0  0  0  0  0  0  0  0  0  0  0  0  0  0  0  0  0  0  0  0  0  0  0  0  0  0  0  0  0  0  0
+## 7  1 0 0 0 0 0 0 0 0  0  0  0  0  0  0  0  0  0  0  0  0  0  0  0  0  0  0  0  0  0  0  0  0  0  0  0  0  0  0  0
+## 8  0 0 0 0 0 0 0 0 0  0  0  0  0  0  0  0  0  0  0  0  0  0  0  0  0  0  0  0  0  0  0  0  0  0  0  0  0  0  0  0
+## 9  0 0 0 0 0 0 0 0 0  0  0  0  0  0  0  0  0  0  0  0  0  0  0  0  0  0  0  0  0  0  0  0  0  0  0  0  0  0  0  0
+## 10 0 0 0 0 0 0 0 0 0  0  0  0  0  0  0  0  0  0  0  0  0  0  0  0  0  0  0  0  0  0  0  0  0  0  0  0  0  0  0  0
+## 11 0 0 0 0 0 0 0 0 0  0  0  0  0  0  0  0  0  0  0  0  0  0  0  0  0  0  0  0  0  0  0  0  0  0  0  0  0  0  0  0
+## 12 0 0 0 0 0 0 0 0 0  0  0  0  0  0  0  0  0  0  0  0  0  0  0  0  0  0  0  0  0  0  0  0  0  0  0  0  0  0  0  0
+## 13 0 0 0 0 0 0 0 0 0  0  0  0  0  0  0  0  0  0  0  0  0  0  0  0  0  0  0  0  0  0  0  0  0  0  0  0  0  0  0  0
+## 14 0 0 0 0 0 0 0 0 0  0  0  0  0  0  0  0  0  0  0  0  0  0  0  0  0  0  0  0  0  0  0  0  0  0  0  0  0  0  0  0
+## 15 0 1 0 0 0 0 0 0 0  0  0  0  0  0  0  0  0  0  0  0  0  0  0  0  0  0  0  0  0  0  0  0  0  0  0  0  0  0  0  0
+## 16 0 0 0 0 0 0 0 0 0  0  0  0  0  0  0  0  0  0  0  0  0  0  0  0  0  0  0  0  0  0  0  0  0  0  0  0  0  0  0  0
+## 17 0 1 0 0 0 0 0 0 0  0  0  0  0  0  0  0  0  0  0  0  0  0  0  0  0  0  0  0  0  0  0  0  0  0  0  0  0  0  0  0
+## 18 1 0 0 0 0 0 0 0 0  0  0  0  0  0  0  0  0  0  0  0  0  0  0  0  0  0  0  0  0  0  0  0  0  0  0  0  0  0  0  0
+## 19 0 0 0 0 0 0 0 0 0  0  0  0  0  0  0  0  0  0  0  0  0  0  0  0  0  0  0  0  0  0  0  0  0  0  0  0  0  0  0  0
+## 20 0 1 0 0 0 0 0 0 0  0  0  0  0  0  0  0  0  0  0  0  0  0  0  0  0  0  0  0  0  0  0  0  0  0  0  0  0  0  0  0
+## 21 0 0 0 0 0 0 0 0 0  0  0  0  0  0  0  0  0  0  0  0  0  0  0  0  0  0  0  0  0  0  0  0  0  0  0  0  0  0  0  0
+## 22 0 0 0 0 0 0 0 0 0  0  0  0  0  0  0  0  0  0  0  0  0  0  0  0  0  0  0  0  0  0  0  0  0  0  0  0  0  0  0  0
+## 23 0 1 0 0 0 0 0 0 0  0  0  0  0  0  0  0  0  0  0  0  0  0  0  0  0  0  0  0  0  0  0  0  0  0  0  0  0  0  0  0
+## 24 0 1 0 0 0 0 0 0 0  0  0  0  0  0  0  0  0  0  0  0  0  0  0  0  0  0  0  0  0  0  0  0  0  0  0  0  0  0  0  0
+## 25 0 0 0 0 0 0 0 0 0  0  0  0  0  0  0  0  0  0  0  0  0  0  0  0  0  0  0  0  0  0  0  0  0  0  0  0  0  0  0  0
+##  [ reached getOption(&quot;max.print&quot;) -- omitted 15 rows ]</code></pre>
 <pre class="r"><code>plot(classnormsnet, vertex.cex = 1) # very dense </code></pre>
 <p><img src="HW10_Final_files/figure-html/unnamed-chunk-3-1.png" width="672" /></p>
 <pre class="r"><code>plot(classnormsnet, vertex.cex = 3)</code></pre>
@@ -752,29 +659,24 @@ diameter(network_class_tietype1, directed=F, weights=NA)</code></pre>
 </ol>
 <pre class="r"><code>#calculating closeness
 mean(closeness(network_class_tietype1, mode=&quot;all&quot;, weights=NA))</code></pre>
-<pre><code>## Warning in closeness(network_class_tietype1, mode = &quot;all&quot;, weights = NA): At
-## centrality.c:2784 :closeness centrality is not well-defined for disconnected
-## graphs</code></pre>
+<pre><code>## Warning in closeness(network_class_tietype1, mode = &quot;all&quot;, weights = NA): At centrality.c:2784 :closeness centrality is
+## not well-defined for disconnected graphs</code></pre>
 <pre><code>## [1] 0.0009559908</code></pre>
 <pre class="r"><code>mean(closeness(network_class_tietype2, mode=&quot;all&quot;, weights=NA))</code></pre>
-<pre><code>## Warning in closeness(network_class_tietype2, mode = &quot;all&quot;, weights = NA): At
-## centrality.c:2784 :closeness centrality is not well-defined for disconnected
-## graphs</code></pre>
+<pre><code>## Warning in closeness(network_class_tietype2, mode = &quot;all&quot;, weights = NA): At centrality.c:2784 :closeness centrality is
+## not well-defined for disconnected graphs</code></pre>
 <pre><code>## [1] 0.0008753162</code></pre>
 <pre class="r"><code>mean(closeness(network_class_tietype3, mode=&quot;all&quot;, weights=NA))</code></pre>
-<pre><code>## Warning in closeness(network_class_tietype3, mode = &quot;all&quot;, weights = NA): At
-## centrality.c:2784 :closeness centrality is not well-defined for disconnected
-## graphs</code></pre>
+<pre><code>## Warning in closeness(network_class_tietype3, mode = &quot;all&quot;, weights = NA): At centrality.c:2784 :closeness centrality is
+## not well-defined for disconnected graphs</code></pre>
 <pre><code>## [1] 0.0009559908</code></pre>
 <pre class="r"><code>mean(closeness(network_class_tietype4, mode=&quot;all&quot;, weights=NA))</code></pre>
-<pre><code>## Warning in closeness(network_class_tietype4, mode = &quot;all&quot;, weights = NA): At
-## centrality.c:2784 :closeness centrality is not well-defined for disconnected
-## graphs</code></pre>
+<pre><code>## Warning in closeness(network_class_tietype4, mode = &quot;all&quot;, weights = NA): At centrality.c:2784 :closeness centrality is
+## not well-defined for disconnected graphs</code></pre>
 <pre><code>## [1] 0.0009131176</code></pre>
 <pre class="r"><code>mean(closeness(network_class_tietype5, mode=&quot;all&quot;, weights=NA))</code></pre>
-<pre><code>## Warning in closeness(network_class_tietype5, mode = &quot;all&quot;, weights = NA): At
-## centrality.c:2784 :closeness centrality is not well-defined for disconnected
-## graphs</code></pre>
+<pre><code>## Warning in closeness(network_class_tietype5, mode = &quot;all&quot;, weights = NA): At centrality.c:2784 :closeness centrality is
+## not well-defined for disconnected graphs</code></pre>
 <pre><code>## [1] 0.0007701825</code></pre>
 <p><strong>Betweenness</strong></p>
 <p>Betweenness is the shortest paths between nodes that go through a given node</p>
@@ -828,8 +730,8 @@ mean(closeness(network_class_tietype1, mode=&quot;all&quot;, weights=NA))</code>
 </ol>
 <pre class="r"><code>centr_degree(network_class_tietype1, mode=&quot;in&quot;, normalized=T)</code></pre>
 <pre><code>## $res
-##  [1] 24 96 23  0  0  0  0  0  0  0  0  0  0  0  0  0  0  0  0  0  0  0  0  0  0
-## [26]  0  0  0  0  0  0  0  0  0  0  0  0  0  0  0
+##  [1] 24 96 23  0  0  0  0  0  0  0  0  0  0  0  0  0  0  0  0  0  0  0  0  0  0  0  0  0  0  0  0  0  0  0  0  0  0  0
+## [39]  0  0
 ## 
 ## $centralization
 ## [1] 2.369872
@@ -838,8 +740,8 @@ mean(closeness(network_class_tietype1, mode=&quot;all&quot;, weights=NA))</code>
 ## [1] 1560</code></pre>
 <pre class="r"><code>centr_degree(network_class_tietype2, mode=&quot;in&quot;, normalized=T)</code></pre>
 <pre><code>## $res
-##  [1] 24 77 32  0  0  0  0  0  0  0  0  0  0  0  0  0  0  0  0  0  0  0  0  0  0
-## [26]  0  0  0  0  0  0  0  0  0  0  0  0  0  0  0
+##  [1] 24 77 32  0  0  0  0  0  0  0  0  0  0  0  0  0  0  0  0  0  0  0  0  0  0  0  0  0  0  0  0  0  0  0  0  0  0  0
+## [39]  0  0
 ## 
 ## $centralization
 ## [1] 1.889103
@@ -848,8 +750,8 @@ mean(closeness(network_class_tietype1, mode=&quot;all&quot;, weights=NA))</code>
 ## [1] 1560</code></pre>
 <pre class="r"><code>centr_degree(network_class_tietype3, mode=&quot;in&quot;, normalized=T)</code></pre>
 <pre><code>## $res
-##  [1] 20 84 27  0  0  0  0  0  0  0  0  0  0  0  0  0  0  0  0  0  0  0  0  0  0
-## [26]  0  0  0  0  0  0  0  0  0  0  0  0  0  0  0
+##  [1] 20 84 27  0  0  0  0  0  0  0  0  0  0  0  0  0  0  0  0  0  0  0  0  0  0  0  0  0  0  0  0  0  0  0  0  0  0  0
+## [39]  0  0
 ## 
 ## $centralization
 ## [1] 2.069872
@@ -858,9 +760,8 @@ mean(closeness(network_class_tietype1, mode=&quot;all&quot;, weights=NA))</code>
 ## [1] 1560</code></pre>
 <pre class="r"><code>centr_degree(network_class_tietype4, mode=&quot;in&quot;, normalized=T)</code></pre>
 <pre><code>## $res
-##  [1]  27 118  31   0   0   0   0   0   0   0   0   0   0   0   0   0   0   0   0
-## [20]   0   0   0   0   0   0   0   0   0   0   0   0   0   0   0   0   0   0   0
-## [39]   0   0
+##  [1]  27 118  31   0   0   0   0   0   0   0   0   0   0   0   0   0   0   0   0   0   0   0   0   0   0   0   0   0   0
+## [30]   0   0   0   0   0   0   0   0   0   0   0
 ## 
 ## $centralization
 ## [1] 2.912821
@@ -869,8 +770,8 @@ mean(closeness(network_class_tietype1, mode=&quot;all&quot;, weights=NA))</code>
 ## [1] 1560</code></pre>
 <pre class="r"><code>centr_degree(network_class_tietype5, mode=&quot;in&quot;, normalized=T)</code></pre>
 <pre><code>## $res
-##  [1] 21 70 21  0  0  0  0  0  0  0  0  0  0  0  0  0  0  0  0  0  0  0  0  0  0
-## [26]  0  0  0  0  0  0  0  0  0  0  0  0  0  0  0
+##  [1] 21 70 21  0  0  0  0  0  0  0  0  0  0  0  0  0  0  0  0  0  0  0  0  0  0  0  0  0  0  0  0  0  0  0  0  0  0  0
+## [39]  0  0
 ## 
 ## $centralization
 ## [1] 1.723077

diff --git a/project.html b/project.html
@@ -295,6 +295,9 @@ $(document).ready(function () {
 <li>
   <a href="HW9_Website.html">HW9</a>
 </li>
+<li>
+  <a href="HW10_Final.html">HW10</a>
+</li>
       </ul>
       <ul class="nav navbar-nav navbar-right">
         
@@ -314,25 +317,7 @@ $(document).ready(function () {
 </div>
 
 
-<div id="r-markdown" class="section level2">
-<h2>R Markdown</h2>
-<p>This is an R Markdown document. Markdown is a simple formatting syntax for authoring HTML, PDF, and MS Word documents. For more details on using R Markdown see <a href="http://rmarkdown.rstudio.com" class="uri">http://rmarkdown.rstudio.com</a>.</p>
-<p>When you click the <strong>Knit</strong> button a document will be generated that includes both content as well as the output of any embedded R code chunks within the document. You can embed an R code chunk like this:</p>
-<pre class="r"><code>summary(cars)</code></pre>
-<pre><code>##      speed           dist       
-##  Min.   : 4.0   Min.   :  2.00  
-##  1st Qu.:12.0   1st Qu.: 26.00  
-##  Median :15.0   Median : 36.00  
-##  Mean   :15.4   Mean   : 42.98  
-##  3rd Qu.:19.0   3rd Qu.: 56.00  
-##  Max.   :25.0   Max.   :120.00</code></pre>
-</div>
-<div id="including-plots" class="section level2">
-<h2>Including Plots</h2>
-<p>You can also embed plots, for example:</p>
-<p><img src="project_files/figure-html/pressure-1.png" width="672" /></p>
-<p>Note that the <code>echo = FALSE</code> parameter was added to the code chunk to prevent printing of the R code that generated the plot.</p>
-</div>
+<p>yea oh yeah this is the project</p>
 
 
 
